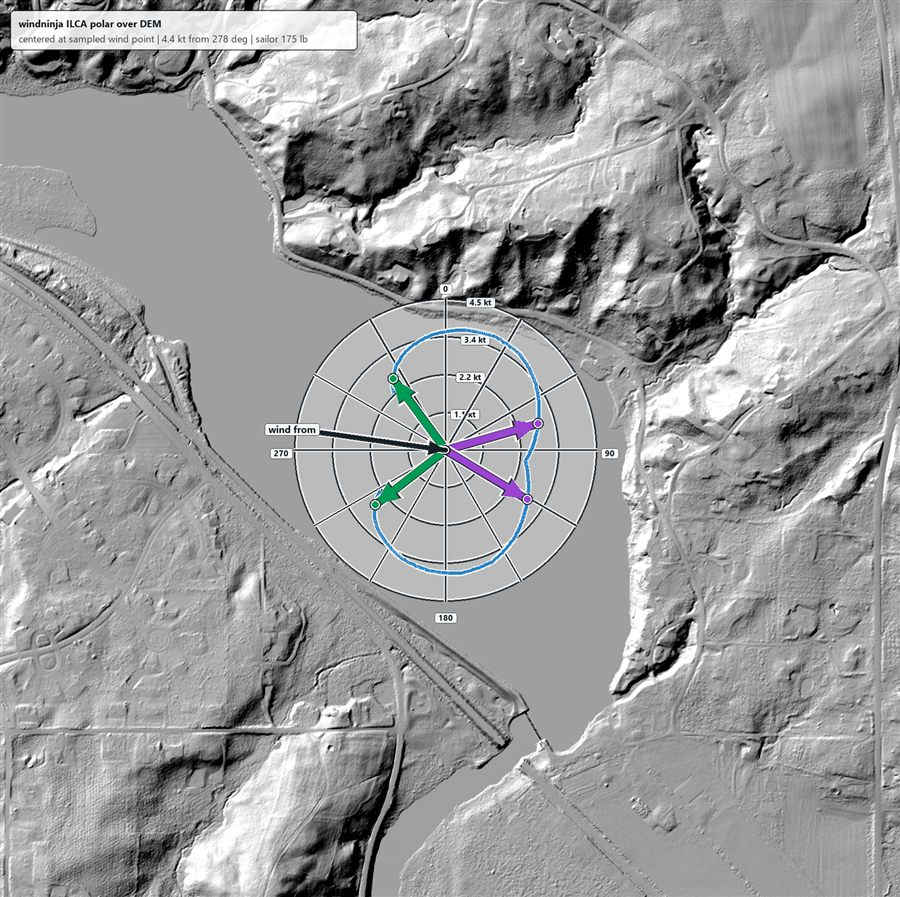
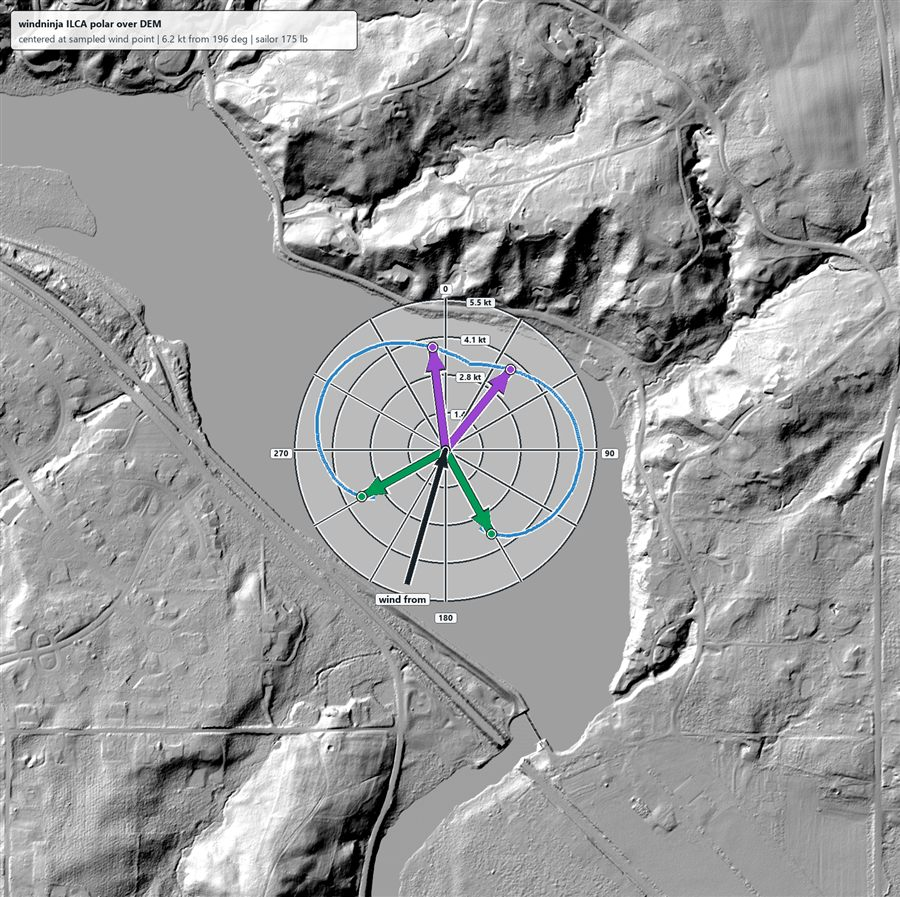
Publish latest PondWind report 2026-08-09 1003

Changed region(s): [[0.28, 0.3434, 0.6533, 0.6867]]

diff --git a/index.html b/index.html
@@ -10,64 +10,59 @@
   <header class="site-header">
     <p class="eyebrow">PondWind</p>
     <h1>Latest Report</h1>
-    <p class="subtitle">Race time: 2026-07-04T13:00:00-04:00</p>
-    <p class="meta">Site: barton_pond &middot; Published: 2026-07-03T13:41:22.2967719Z</p>
+    <p class="subtitle">Latest published report</p>
+    <p class="meta">Site: 20260809_1400_barton_pond &middot; Published: 2026-08-09T14:03:36.9186635Z</p>
   </header>
   <main class="product-grid">
       <article class="product-card">
         <div class="product-meta">Wind</div>
         <h2>Wind Speed Prediction</h2>
-        <a href="latest/images/product_1_wind_speed_prediction_knots.png?v=2026-07-03T13%3A41%3A22.2967719Z"><img src="latest/images/product_1_wind_speed_prediction_knots.png?v=2026-07-03T13%3A41%3A22.2967719Z" alt="Wind Speed Prediction"></a>
+        <a href="latest/images/product_1_wind_speed_prediction_knots.png?v=2026-08-09T14%3A03%3A36.9186635Z"><img src="latest/images/product_1_wind_speed_prediction_knots.png?v=2026-08-09T14%3A03%3A36.9186635Z" alt="Wind Speed Prediction"></a>
       </article>
       <article class="product-card">
         <div class="product-meta">Wind</div>
         <h2>Wind Speed Ensemble SD</h2>
-        <a href="latest/images/product_2_wind_speed_variance_knots.png?v=2026-07-03T13%3A41%3A22.2967719Z"><img src="latest/images/product_2_wind_speed_variance_knots.png?v=2026-07-03T13%3A41%3A22.2967719Z" alt="Wind Speed Ensemble SD"></a>
+        <a href="latest/images/product_2_wind_speed_variance_knots.png?v=2026-08-09T14%3A03%3A36.9186635Z"><img src="latest/images/product_2_wind_speed_variance_knots.png?v=2026-08-09T14%3A03%3A36.9186635Z" alt="Wind Speed Ensemble SD"></a>
       </article>
       <article class="product-card">
         <div class="product-meta">Wind</div>
         <h2>Wind Direction Ensemble SD</h2>
-        <a href="latest/images/product_3_wind_direction_variance_degrees.png?v=2026-07-03T13%3A41%3A22.2967719Z"><img src="latest/images/product_3_wind_direction_variance_degrees.png?v=2026-07-03T13%3A41%3A22.2967719Z" alt="Wind Direction Ensemble SD"></a>
+        <a href="latest/images/product_3_wind_direction_variance_degrees.png?v=2026-08-09T14%3A03%3A36.9186635Z"><img src="latest/images/product_3_wind_direction_variance_degrees.png?v=2026-08-09T14%3A03%3A36.9186635Z" alt="Wind Direction Ensemble SD"></a>
       </article>
       <article class="product-card">
         <div class="product-meta">Experimental CFD</div>
         <h2>Experimental CFD/Adapter Comparison</h2>
-        <a href="latest/images/product_4_openfoam_experimental_cfd_knots.png?v=2026-07-03T13%3A41%3A22.2967719Z"><img src="latest/images/product_4_openfoam_experimental_cfd_knots.png?v=2026-07-03T13%3A41%3A22.2967719Z" alt="Experimental CFD/Adapter Comparison"></a>
+        <a href="latest/images/product_4_openfoam_experimental_cfd_knots.png?v=2026-08-09T14%3A03%3A36.9186635Z"><img src="latest/images/product_4_openfoam_experimental_cfd_knots.png?v=2026-08-09T14%3A03%3A36.9186635Z" alt="Experimental CFD/Adapter Comparison"></a>
       </article>
       <article class="product-card">
         <div class="product-meta">Experimental CFD</div>
         <h2>Experimental CFD Turbulence Intensity</h2>
-        <a href="latest/images/product_5_openfoam_turbulence_intensity_percent.png?v=2026-07-03T13%3A41%3A22.2967719Z"><img src="latest/images/product_5_openfoam_turbulence_intensity_percent.png?v=2026-07-03T13%3A41%3A22.2967719Z" alt="Experimental CFD Turbulence Intensity"></a>
+        <a href="latest/images/product_5_openfoam_turbulence_intensity_percent.png?v=2026-08-09T14%3A03%3A36.9186635Z"><img src="latest/images/product_5_openfoam_turbulence_intensity_percent.png?v=2026-08-09T14%3A03%3A36.9186635Z" alt="Experimental CFD Turbulence Intensity"></a>
       </article>
       <article class="product-card">
         <div class="product-meta">Sailing</div>
         <h2>Experimental ILCA Relative Polar</h2>
-        <a href="latest/images/product_6_sailing_polar_dem_overlay.png?v=2026-07-03T13%3A41%3A22.2967719Z"><img src="latest/images/product_6_sailing_polar_dem_overlay.png?v=2026-07-03T13%3A41%3A22.2967719Z" alt="Experimental ILCA Relative Polar"></a>
+        <a href="latest/images/product_6_sailing_polar_dem_overlay.png?v=2026-08-09T14%3A03%3A36.9186635Z"><img src="latest/images/product_6_sailing_polar_dem_overlay.png?v=2026-08-09T14%3A03%3A36.9186635Z" alt="Experimental ILCA Relative Polar"></a>
       </article>
       <article class="product-card">
         <div class="product-meta">Sailing</div>
         <h2>Experimental CFD Relative Polar</h2>
-        <a href="latest/images/product_7_openfoam_sailing_polar_dem_overlay.png?v=2026-07-03T13%3A41%3A22.2967719Z"><img src="latest/images/product_7_openfoam_sailing_polar_dem_overlay.png?v=2026-07-03T13%3A41%3A22.2967719Z" alt="Experimental CFD Relative Polar"></a>
+        <a href="latest/images/product_7_openfoam_sailing_polar_dem_overlay.png?v=2026-08-09T14%3A03%3A36.9186635Z"><img src="latest/images/product_7_openfoam_sailing_polar_dem_overlay.png?v=2026-08-09T14%3A03%3A36.9186635Z" alt="Experimental CFD Relative Polar"></a>
       </article>
       <article class="product-card">
         <div class="product-meta">Satellite</div>
         <h2>Latest RGB Satellite</h2>
-        <a href="latest/images/satellite_rgb_latest.png?v=2026-07-03T13%3A41%3A22.2967719Z"><img src="latest/images/satellite_rgb_latest.png?v=2026-07-03T13%3A41%3A22.2967719Z" alt="Latest RGB Satellite"></a>
-      </article>
-      <article class="product-card">
-        <div class="product-meta">Satellite</div>
-        <h2>Surface Temperature Over Water</h2>
-        <a href="latest/images/satellite_sst_latest.png?v=2026-07-03T13%3A41%3A22.2967719Z"><img src="latest/images/satellite_sst_latest.png?v=2026-07-03T13%3A41%3A22.2967719Z" alt="Surface Temperature Over Water"></a>
+        <a href="latest/images/satellite_rgb_latest.png?v=2026-08-09T14%3A03%3A36.9186635Z"><img src="latest/images/satellite_rgb_latest.png?v=2026-08-09T14%3A03%3A36.9186635Z" alt="Latest RGB Satellite"></a>
       </article>
       <article class="product-card">
         <div class="product-meta">Satellite</div>
         <h2>Experimental Chlorophyll-a Index</h2>
-        <a href="latest/images/satellite_chla_estimated.png?v=2026-07-03T13%3A41%3A22.2967719Z"><img src="latest/images/satellite_chla_estimated.png?v=2026-07-03T13%3A41%3A22.2967719Z" alt="Experimental Chlorophyll-a Index"></a>
+        <a href="latest/images/satellite_chla_estimated.png?v=2026-08-09T14%3A03%3A36.9186635Z"><img src="latest/images/satellite_chla_estimated.png?v=2026-08-09T14%3A03%3A36.9186635Z" alt="Experimental Chlorophyll-a Index"></a>
       </article>
       <article class="product-card">
         <div class="product-meta">Satellite</div>
         <h2>Experimental Turbidity Index</h2>
-        <a href="latest/images/satellite_turbidity_estimated.png?v=2026-07-03T13%3A41%3A22.2967719Z"><img src="latest/images/satellite_turbidity_estimated.png?v=2026-07-03T13%3A41%3A22.2967719Z" alt="Experimental Turbidity Index"></a>
+        <a href="latest/images/satellite_turbidity_estimated.png?v=2026-08-09T14%3A03%3A36.9186635Z"><img src="latest/images/satellite_turbidity_estimated.png?v=2026-08-09T14%3A03%3A36.9186635Z" alt="Experimental Turbidity Index"></a>
       </article>
   </main>
   <footer class="site-footer">
